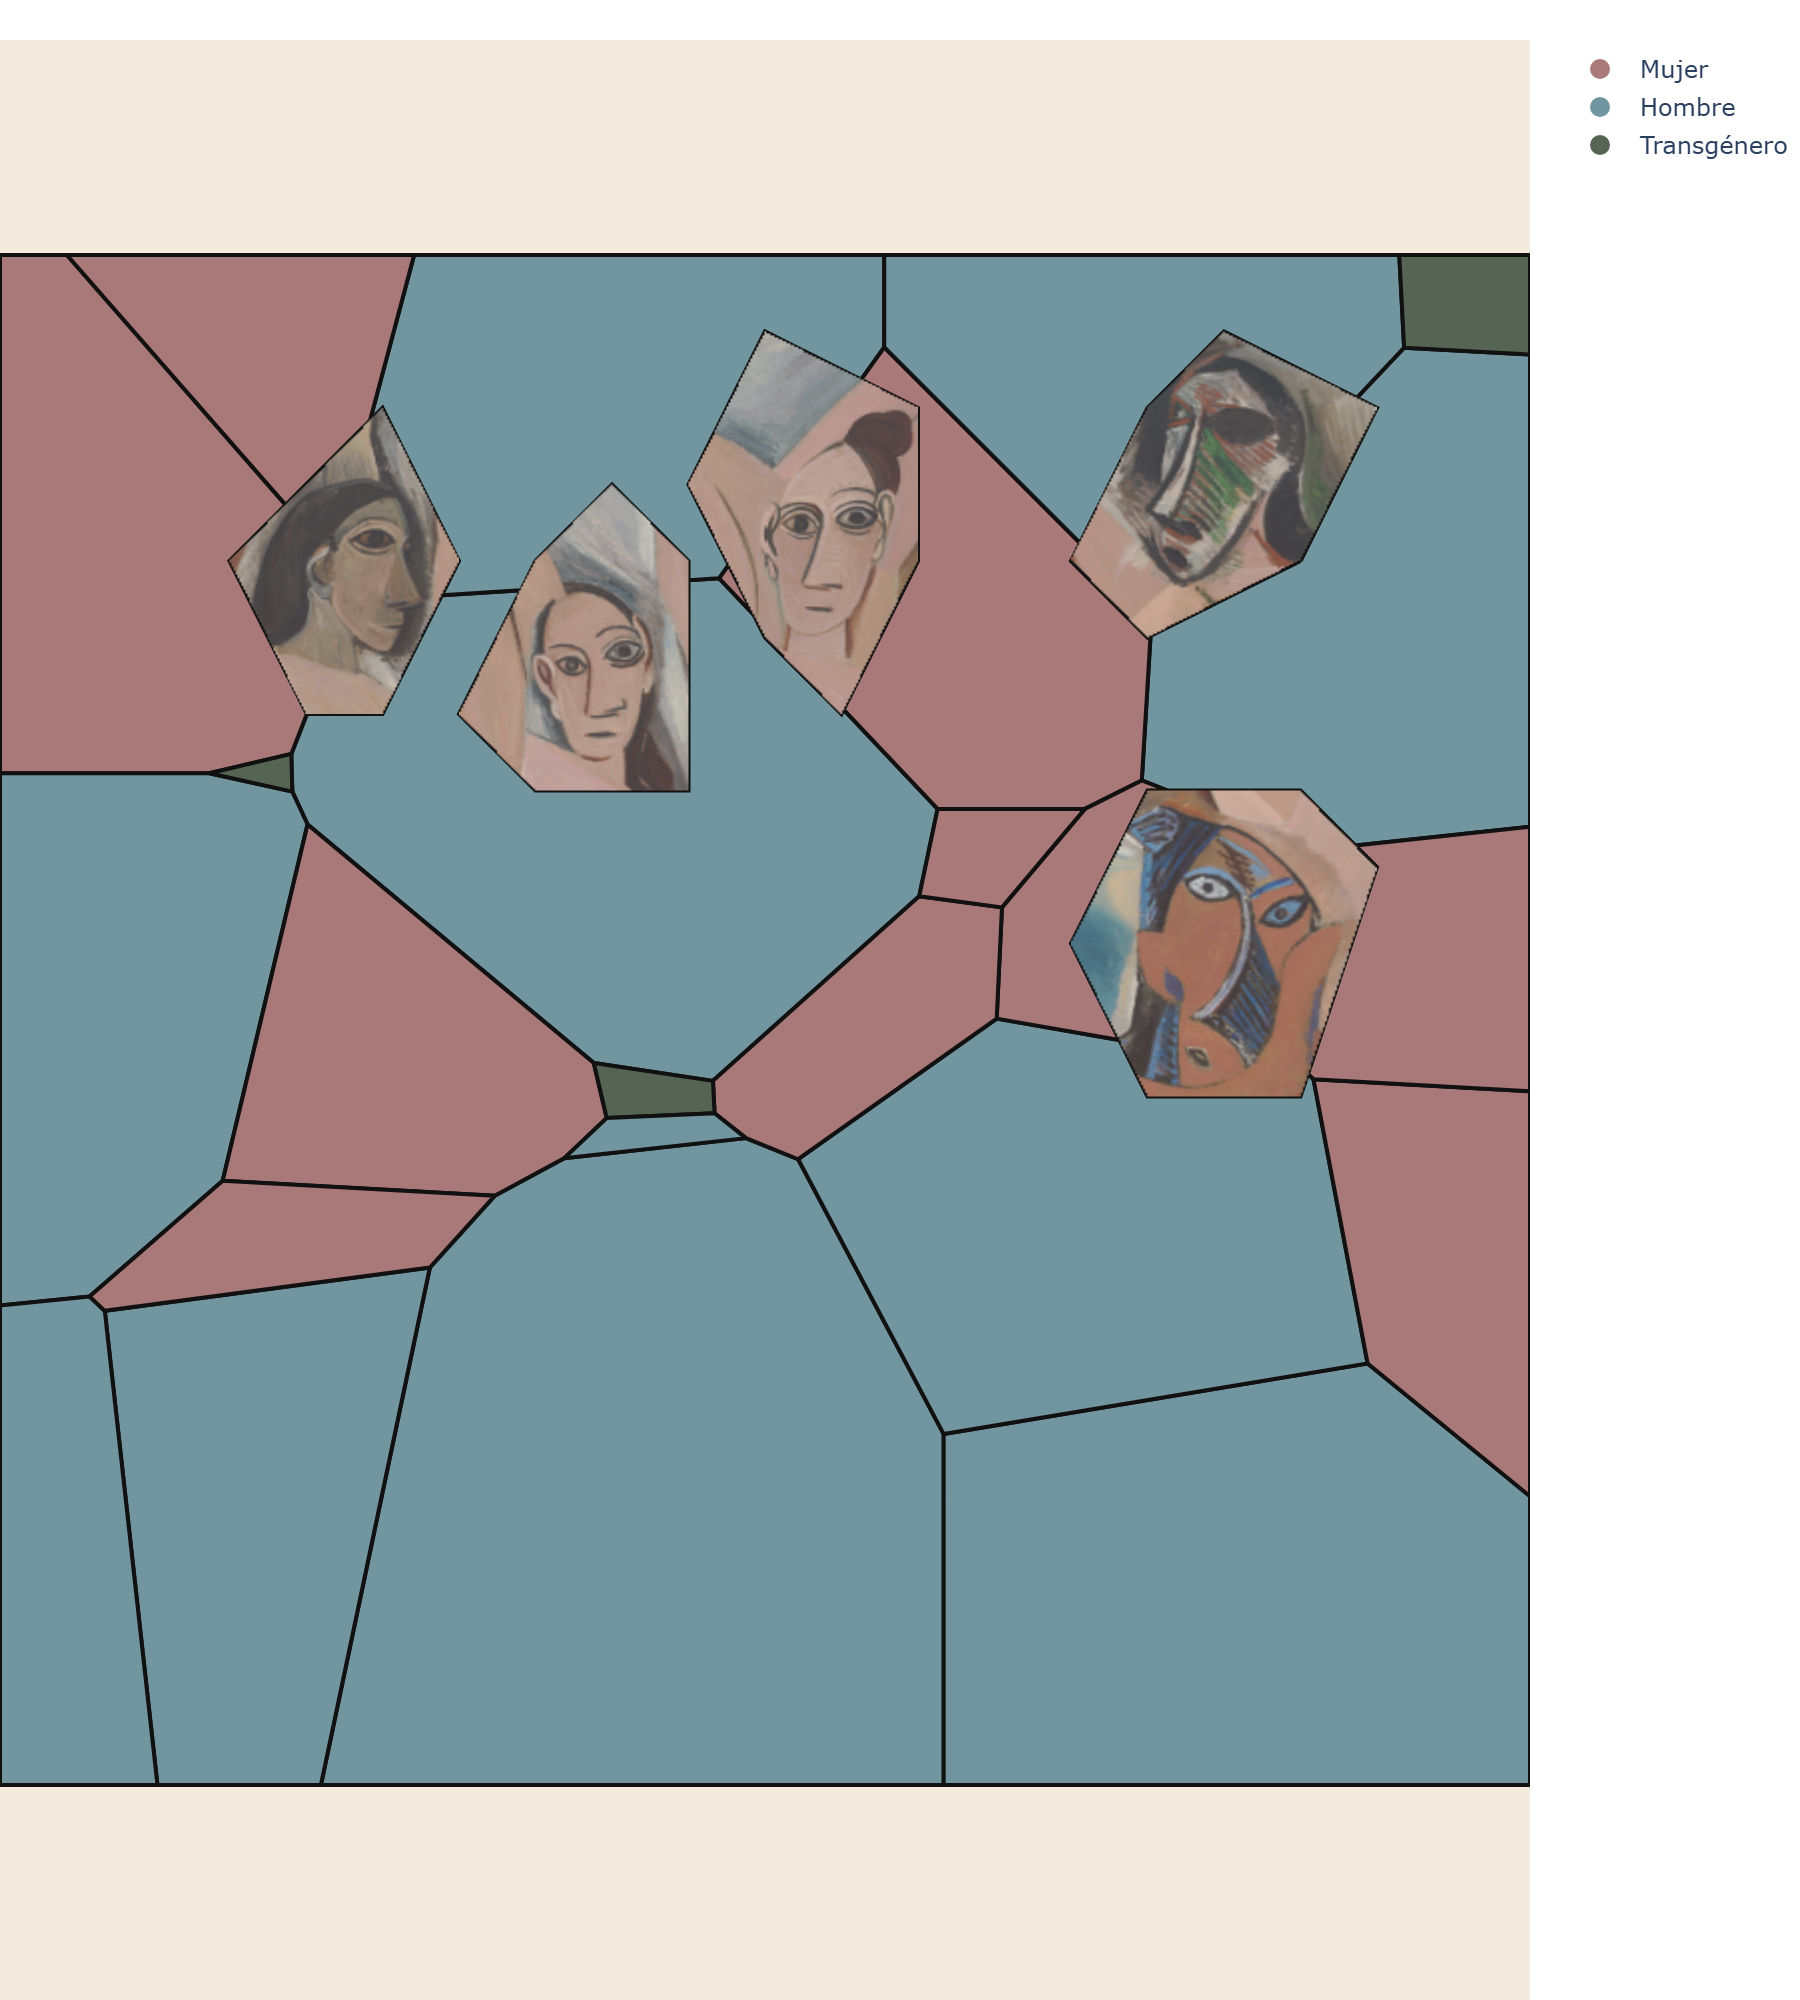
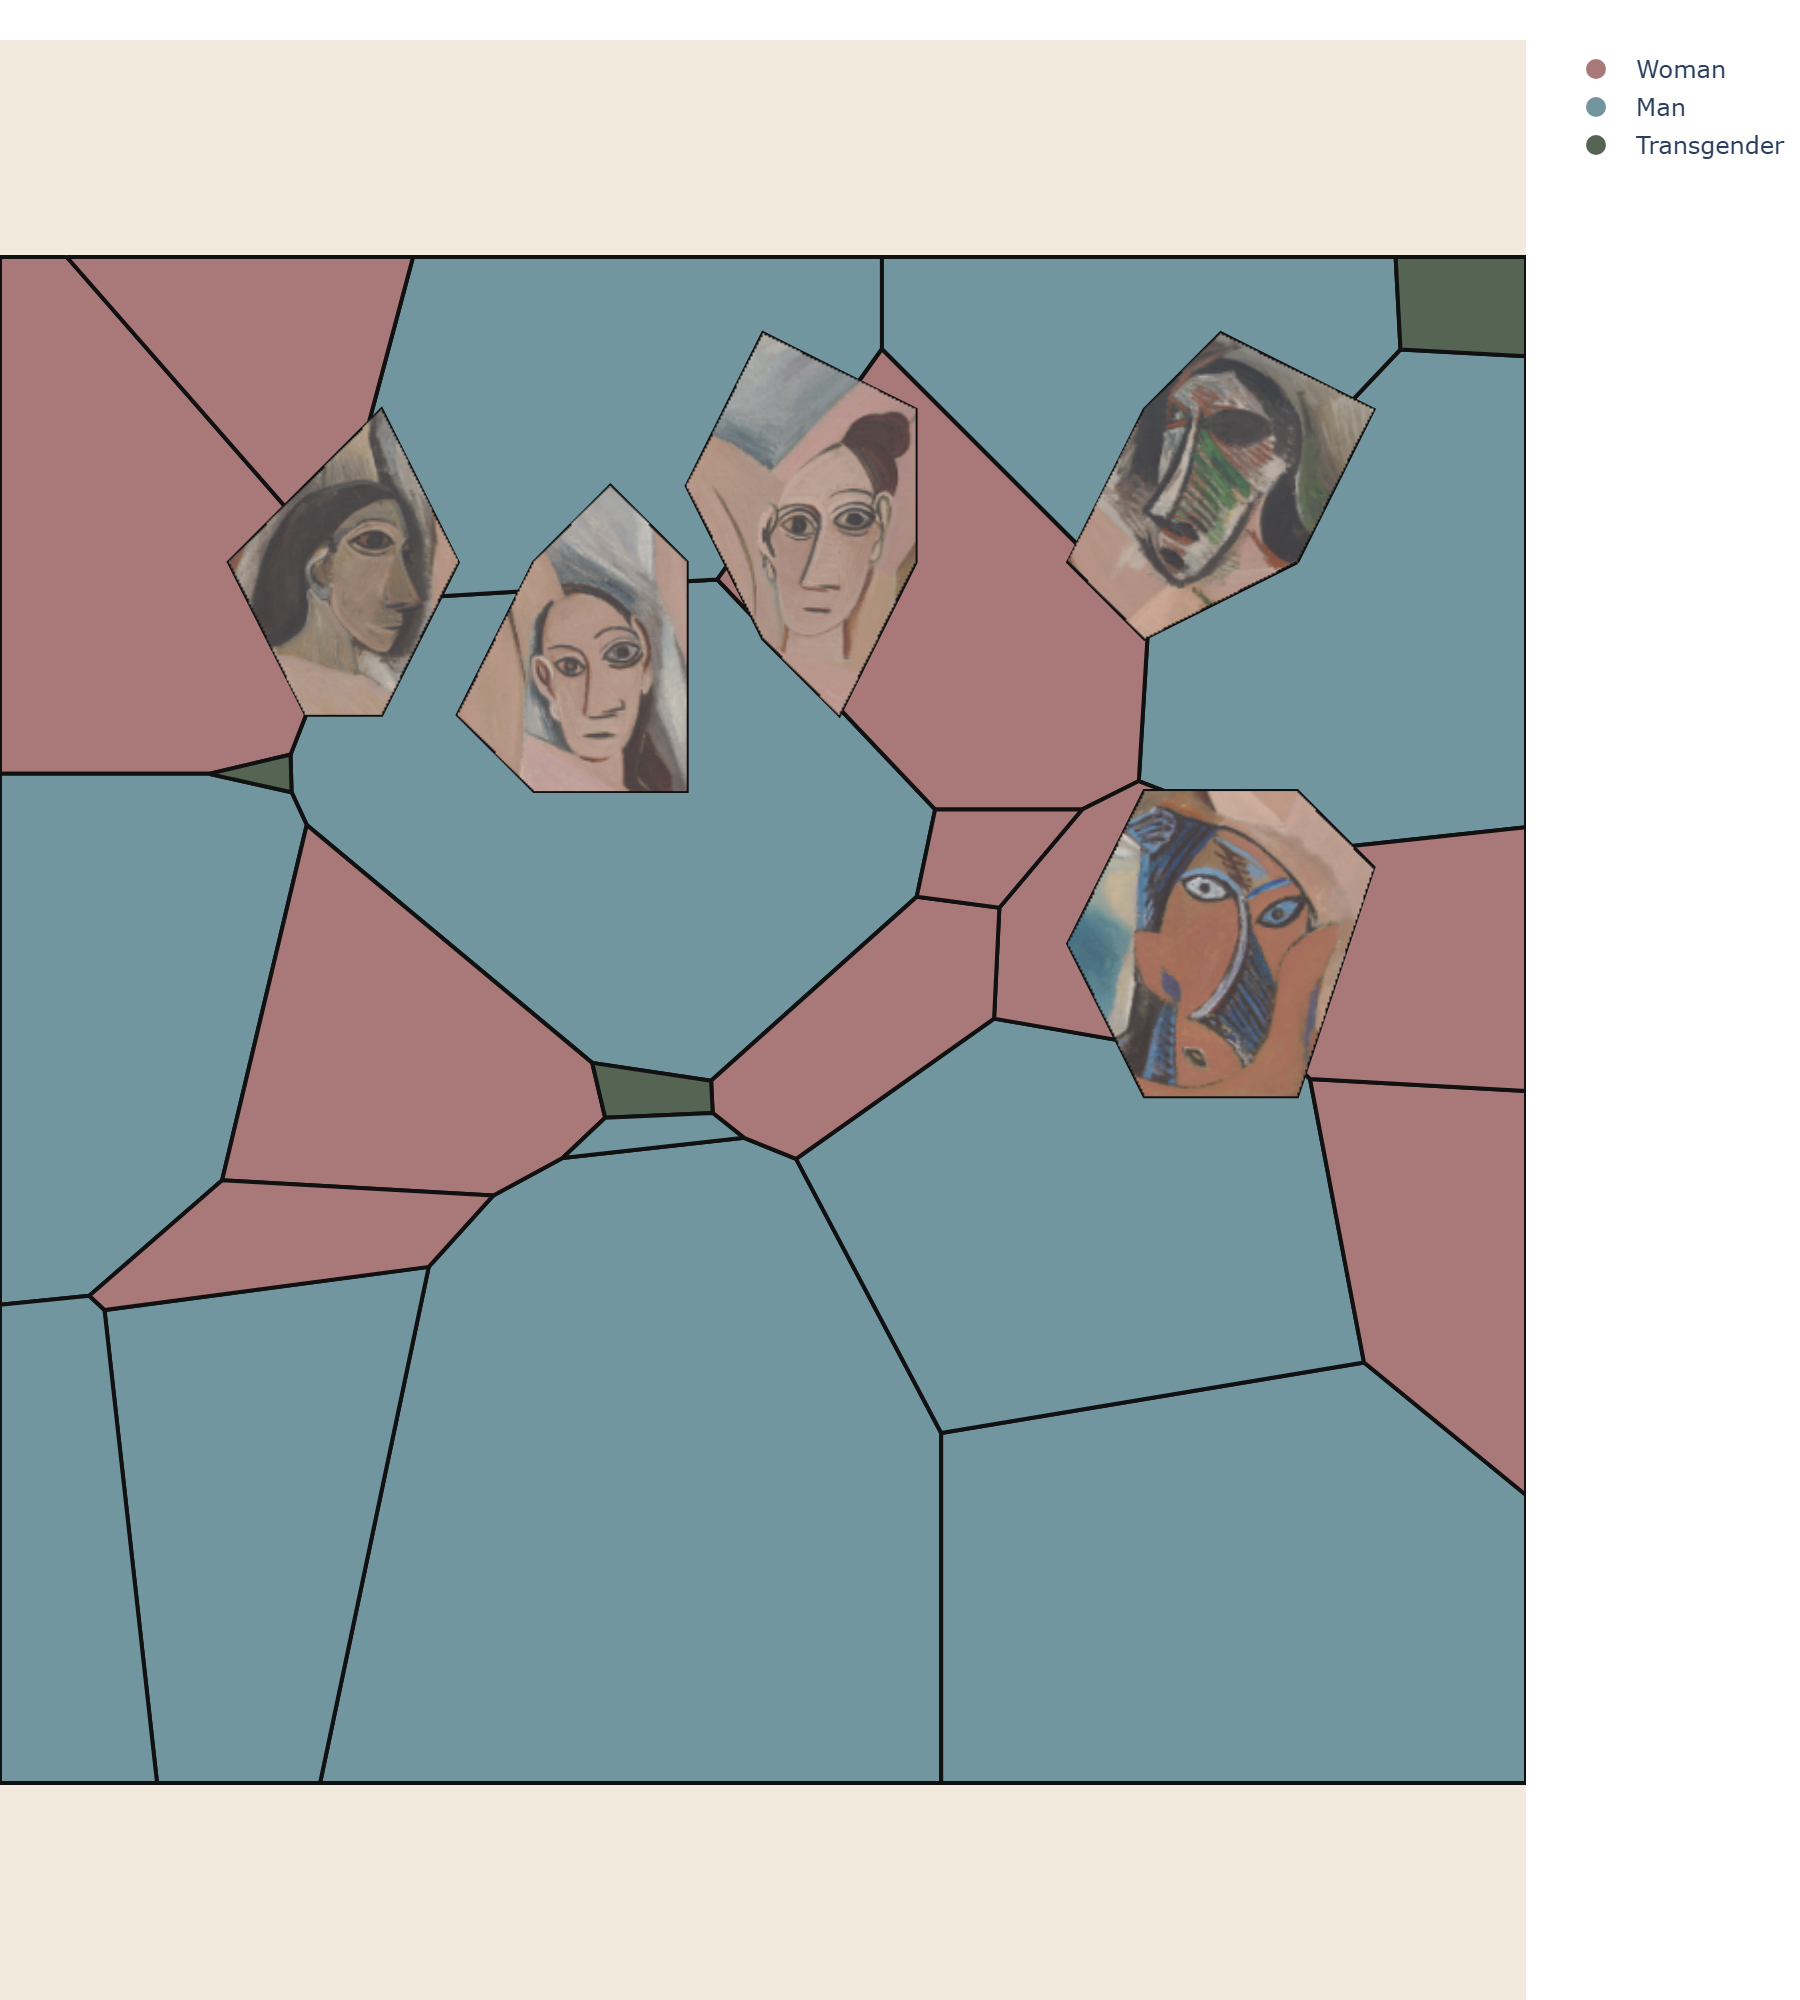
fix: translate Demoiselles gender labels and hover text to English
classify_gender, the palette keys, the legend, and hover text ("obras")
were left in Spanish from earlier prototyping while everything else in
the project (docstrings, Mondrian's hover text, variable names) is
English. Mujer/Hombre/Transgénero -> Woman/Man/Transgender throughout
src/, tests/, and the prototyping notebook; regenerated the README
screenshot since the legend text was baked into the PNG.

Claude-Session: https://claude.ai/code/session_014Gnfa1qWxq5G5SL2ds2WZ5

diff --git a/src/demoiselles_geometry.py b/src/demoiselles_geometry.py
@@ -27,48 +27,48 @@ FACE_POLYGONS = [Polygon(points) for points in FACE_CONTOURS]
 # fixed once placed, only each cell's weight is adjusted to hit its target
 # area. Approved as-is by the user without further hand-tuning.
 ANCHORS = [
-    (0.42, 0.01),  # 0: ('1960s', 'Hombre') (44170)
-    (0.42, 0.62),  # 1: ('2010s', 'Hombre') (20360)
-    (0.79, 0.01),  # 2: ('2000s', 'Hombre') (20334)
-    (0.76, 0.19),  # 3: ('1970s', 'Hombre') (11697)
-    (0.40, 0.95),  # 4: ('1980s', 'Hombre') (9452)
-    (0.94, 0.78),  # 5: ('1990s', 'Hombre') (9164)
-    (0.01, 0.78),  # 6: ('2010s', 'Mujer') (6911)
-    (0.01, 0.43),  # 7: ('1940s', 'Hombre') (6733)
-    (0.23, 0.05),  # 8: ('1950s', 'Hombre') (6023)
-    (0.61, 0.80),  # 9: ('2000s', 'Mujer') (5752)
-    (0.76, 0.95),  # 10: ('2020s', 'Hombre') (5710)
-    (0.22, 0.38),  # 11: ('1990s', 'Mujer') (2935)
-    (0.80, 0.42),  # 12: ('2020s', 'Mujer') (2040)
-    (0.97, 0.23),  # 13: ('1970s', 'Mujer') (1664)
-    (0.05, 0.03),  # 14: ('1930s', 'Hombre') (1655)
-    (0.98, 0.41),  # 15: ('1980s', 'Mujer') (1190)
-    (0.25, 0.99),  # 16: ('1960s', 'Mujer') (1156)
-    (0.59, 0.43),  # 17: ('1940s', 'Mujer') (657)
-    (0.21, 0.20),  # 18: ('1950s', 'Mujer') (390)
-    (0.95, 0.96),  # 19: ('2020s', 'Transgénero') (63)
-    (0.61, 0.58),  # 20: ('1930s', 'Mujer') (50)
-    (0.39, 0.42),  # 21: ('1940s', 'Transgénero') (10)
-    (0.40, 0.19),  # 22: ('1920s', 'Hombre') (9)
-    (0.05, 0.61),  # 23: ('1950s', 'Transgénero') (1)
+    (0.42, 0.01),  # 0: ('1960s', 'Man') (44170)
+    (0.42, 0.62),  # 1: ('2010s', 'Man') (20360)
+    (0.79, 0.01),  # 2: ('2000s', 'Man') (20334)
+    (0.76, 0.19),  # 3: ('1970s', 'Man') (11697)
+    (0.40, 0.95),  # 4: ('1980s', 'Man') (9452)
+    (0.94, 0.78),  # 5: ('1990s', 'Man') (9164)
+    (0.01, 0.78),  # 6: ('2010s', 'Woman') (6911)
+    (0.01, 0.43),  # 7: ('1940s', 'Man') (6733)
+    (0.23, 0.05),  # 8: ('1950s', 'Man') (6023)
+    (0.61, 0.80),  # 9: ('2000s', 'Woman') (5752)
+    (0.76, 0.95),  # 10: ('2020s', 'Man') (5710)
+    (0.22, 0.38),  # 11: ('1990s', 'Woman') (2935)
+    (0.80, 0.42),  # 12: ('2020s', 'Woman') (2040)
+    (0.97, 0.23),  # 13: ('1970s', 'Woman') (1664)
+    (0.05, 0.03),  # 14: ('1930s', 'Man') (1655)
+    (0.98, 0.41),  # 15: ('1980s', 'Woman') (1190)
+    (0.25, 0.99),  # 16: ('1960s', 'Woman') (1156)
+    (0.59, 0.43),  # 17: ('1940s', 'Woman') (657)
+    (0.21, 0.20),  # 18: ('1950s', 'Woman') (390)
+    (0.95, 0.96),  # 19: ('2020s', 'Transgender') (63)
+    (0.61, 0.58),  # 20: ('1930s', 'Woman') (50)
+    (0.39, 0.42),  # 21: ('1940s', 'Transgender') (10)
+    (0.40, 0.19),  # 22: ('1920s', 'Man') (9)
+    (0.05, 0.61),  # 23: ('1950s', 'Transgender') (1)
 ]
 
 
 def classify_gender(raw):
-    """Bucket a raw MoMA Gender string into Mujer/Hombre/Transgenero, or
+    """Bucket a raw MoMA Gender string into Woman/Man/Transgender, or
     None if it doesn't fit any of the three (checked against the real
     distinct values in data/raw/Artworks.json -- contains-trans is
     checked before the prefix checks so values like "female
-    (transwoman)" land in Transgenero, not Mujer)."""
+    (transwoman)" land in Transgender, not Woman)."""
     if not isinstance(raw, str):
         return None
     g = raw.strip().lower()
     if "trans" in g:
-        return "Transgénero"
+        return "Transgender"
     if g.startswith("female"):
-        return "Mujer"
+        return "Woman"
     if g.startswith("male"):
-        return "Hombre"
+        return "Man"
     return None
 
 

diff --git a/tests/test_demoiselles_geometry.py b/tests/test_demoiselles_geometry.py
@@ -19,11 +19,11 @@ def test_anchors_align_one_to_one_with_real_categories():
 
 
 def test_classify_gender_buckets_real_observed_values():
-    assert geo.classify_gender("male") == "Hombre"
-    assert geo.classify_gender("female") == "Mujer"
-    assert geo.classify_gender("female (transwoman)") == "Transgénero"
-    assert geo.classify_gender("male (trans? ftm?)") == "Transgénero"
-    assert geo.classify_gender("transgender woman") == "Transgénero"
+    assert geo.classify_gender("male") == "Man"
+    assert geo.classify_gender("female") == "Woman"
+    assert geo.classify_gender("female (transwoman)") == "Transgender"
+    assert geo.classify_gender("male (trans? ftm?)") == "Transgender"
+    assert geo.classify_gender("transgender woman") == "Transgender"
 
 
 def test_classify_gender_discards_non_bucket_values():
@@ -39,7 +39,7 @@ def test_person_gender_decade_counts_counts_per_person():
         "Decade_acquired": ["1960s", "1960s", "1970s"],
     })
     counts = geo.person_gender_decade_counts(df)
-    assert counts == {("1960s", "Hombre"): 2, ("1960s", "Mujer"): 1}
+    assert counts == {("1960s", "Man"): 2, ("1960s", "Woman"): 1}
 
 
 def test_category_items_ranks_by_count_descending():
@@ -48,7 +48,7 @@ def test_category_items_ranks_by_count_descending():
         "Decade_acquired": ["1960s"] * 3 + ["1970s"] * 10,
     })
     items = geo.category_items(df)
-    assert items == [(("1970s", "Mujer"), 10), (("1960s", "Hombre"), 3)]
+    assert items == [(("1970s", "Woman"), 10), (("1960s", "Man"), 3)]
 
 
 def test_target_fracs_sums_to_one_and_strictly_orders_the_tail():

diff --git a/tests/test_charts.py b/tests/test_charts.py
@@ -92,16 +92,16 @@ def test_demoiselles_voronoi_hover_never_contains_a_gender_word():
     fig = charts.demoiselles_voronoi(_DEMOISELLES_DF)
     for trace in fig.data:
         if trace.hoverinfo == "text" and trace.text:
-            assert "Mujer" not in trace.text
-            assert "Hombre" not in trace.text
-            assert "Transgénero" not in trace.text
+            assert "Woman" not in trace.text
+            assert "Man" not in trace.text
+            assert "Transgender" not in trace.text
 
 
 def test_demoiselles_voronoi_legend_has_three_gender_entries_with_correct_colors():
     fig = charts.demoiselles_voronoi(_DEMOISELLES_DF)
     legend_traces = [t for t in fig.data if t.showlegend]
     legend_names = {t.name for t in legend_traces}
-    assert legend_names == {"Mujer", "Hombre", "Transgénero"}
+    assert legend_names == {"Woman", "Man", "Transgender"}
     for trace in legend_traces:
         expected_color = config.PALETTES["demoiselles"][charts._GENDER_PALETTE_KEYS[trace.name]]
         assert trace.marker.color == expected_color

diff --git a/src/charts.py b/src/charts.py
@@ -153,7 +153,7 @@ def _polygon_traces(polygon, fillcolor, palette, hovertext=None):
     return traces
 
 
-_GENDER_PALETTE_KEYS = {"Mujer": "mujer", "Hombre": "hombre", "Transgénero": "transgenero"}
+_GENDER_PALETTE_KEYS = {"Woman": "woman", "Man": "man", "Transgender": "transgender"}
 
 
 def _legend_proxy_traces(palette):
@@ -209,7 +209,7 @@ def demoiselles_voronoi(df):
             continue
         (decade, gender), count = df_items[i]
         fillcolor = palette[_GENDER_PALETTE_KEYS[gender]]
-        hovertext = f"{decade}<br>{count} obras"
+        hovertext = f"{decade}<br>{count} artworks"
         for trace in _polygon_traces(cell, fillcolor, palette, hovertext=hovertext):
             fig.add_trace(trace)
 

diff --git a/src/config.py b/src/config.py
@@ -25,9 +25,9 @@ PALETTES = {
         # the dataviz skill's categorical accessibility validator (chroma
         # floor, CVD separation) -- kept anyway, by explicit user request,
         # for fidelity to the source painting over accessibility.
-        "mujer": "#A97878",
-        "hombre": "#71969F",
-        "transgenero": "#566454",
+        "woman": "#A97878",
+        "man": "#71969F",
+        "transgender": "#566454",
         "face": "#E8DCC8",
         "background": "#F2EADD",
         "black": "#111111",
